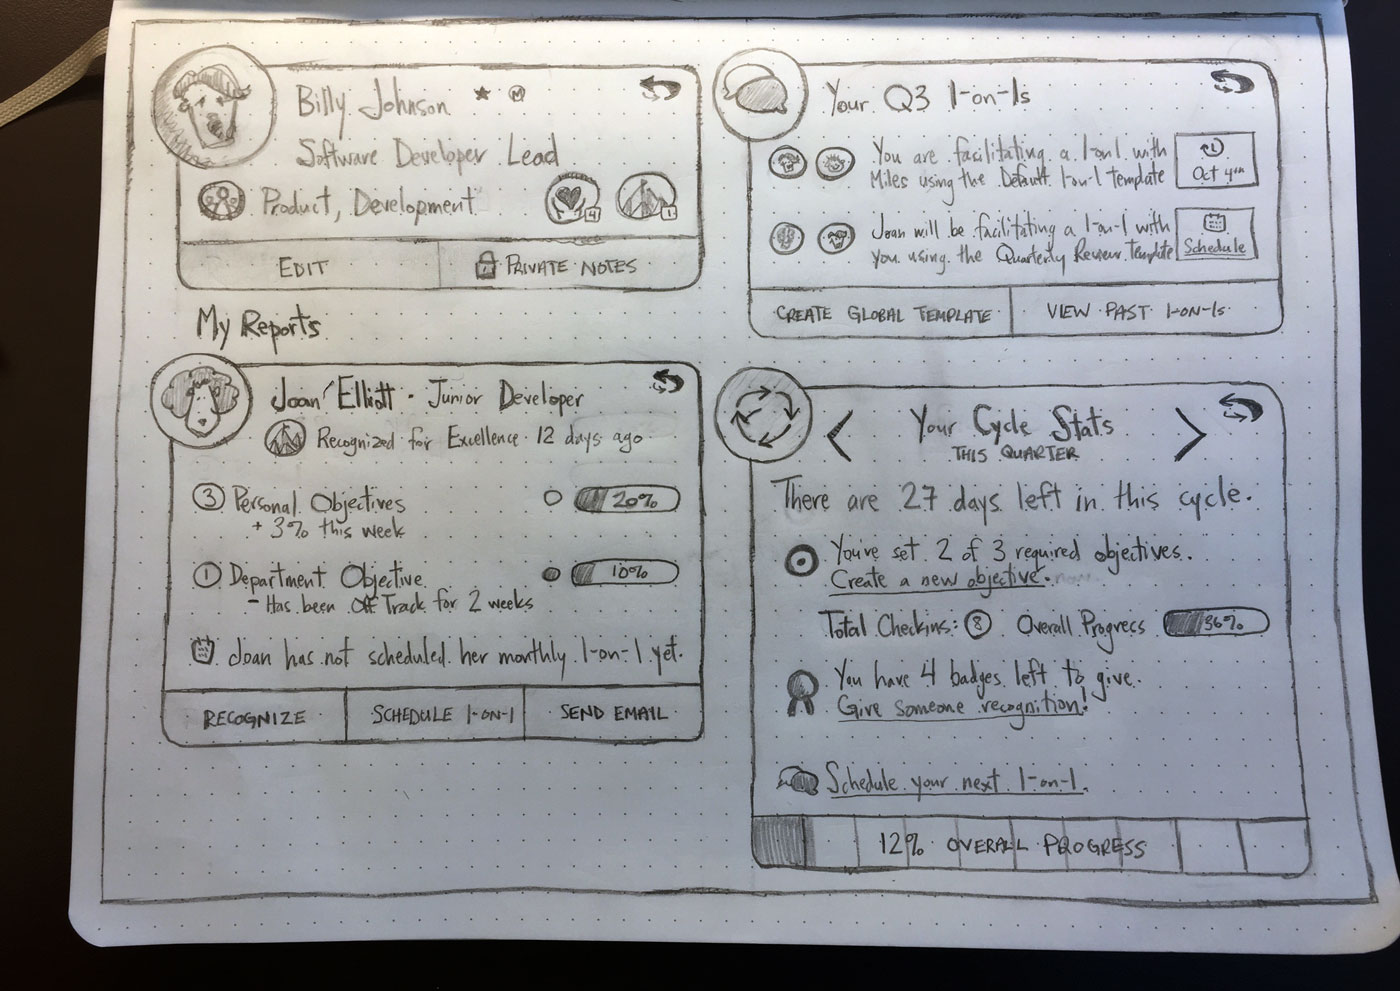
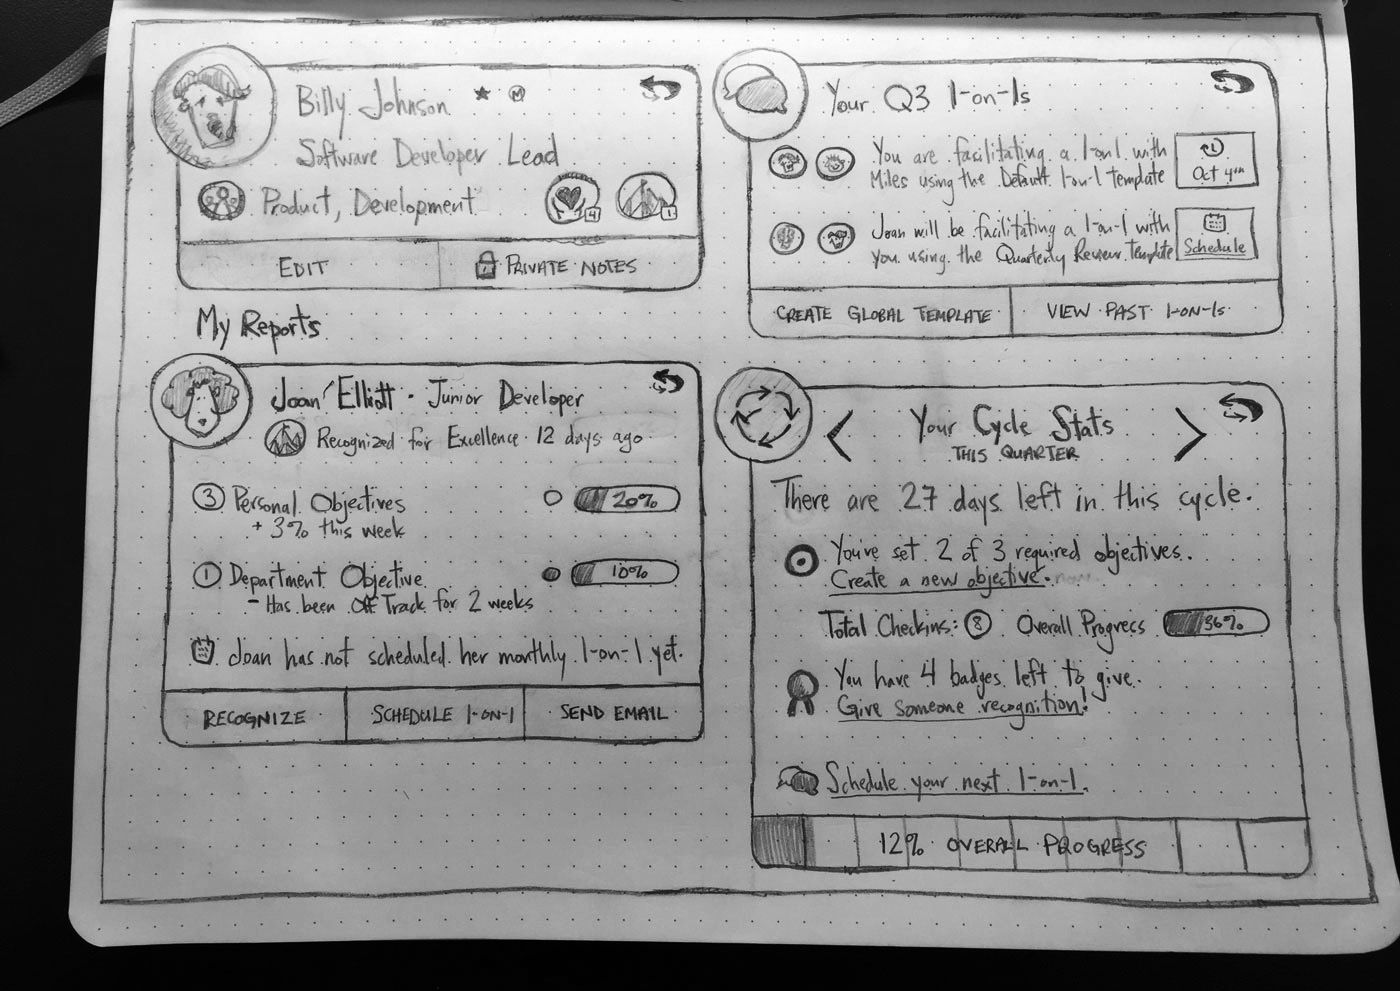
add My Impact card and make some images B&W

diff --git a/articles/10-ia-sketches/index.html b/articles/10-ia-sketches/index.html
@@ -118,9 +118,9 @@ As always, <a href="/articles/10-ia-sketches/#disqus_thread">leave a comment bel
 </span>
 <img src="/articles/10-ia-sketches/oneonone-and-cycles-with-notes.jpg" alt="ia sketches"></p>
 <p><span class="annotation">
-    “my impact” card with notes
+    “my impact” card concept
 </span>
-<img src="/articles/10-ia-sketches/my-impact-card-with-notes.jpg" alt="ia sketches"></p>
+<img src="/articles/10-ia-sketches/my-impact-card.jpg" alt="ia sketches"></p>
 <p><span class="annotation">
     <a href="http://sketches.kevinsalter.me/articles/6-feed-me/">feed</a> card concept
 </span>

diff --git a/contents/articles/10-ia-sketches/index.md b/contents/articles/10-ia-sketches/index.md
@@ -107,9 +107,9 @@ As always, [leave a comment below if something comes to mind!](#disqus_thread)
 ![ia sketches](./oneonone-and-cycles-with-notes.jpg)
 
 <span class="annotation">
-    "my impact" card with notes
+    "my impact" card concept
 </span>
-![ia sketches](./my-impact-card-with-notes.jpg)
+![ia sketches](./my-impact-card.jpg)
 
 <span class="annotation">
     [feed](http://sketches.kevinsalter.me/articles/6-feed-me/) card concept
